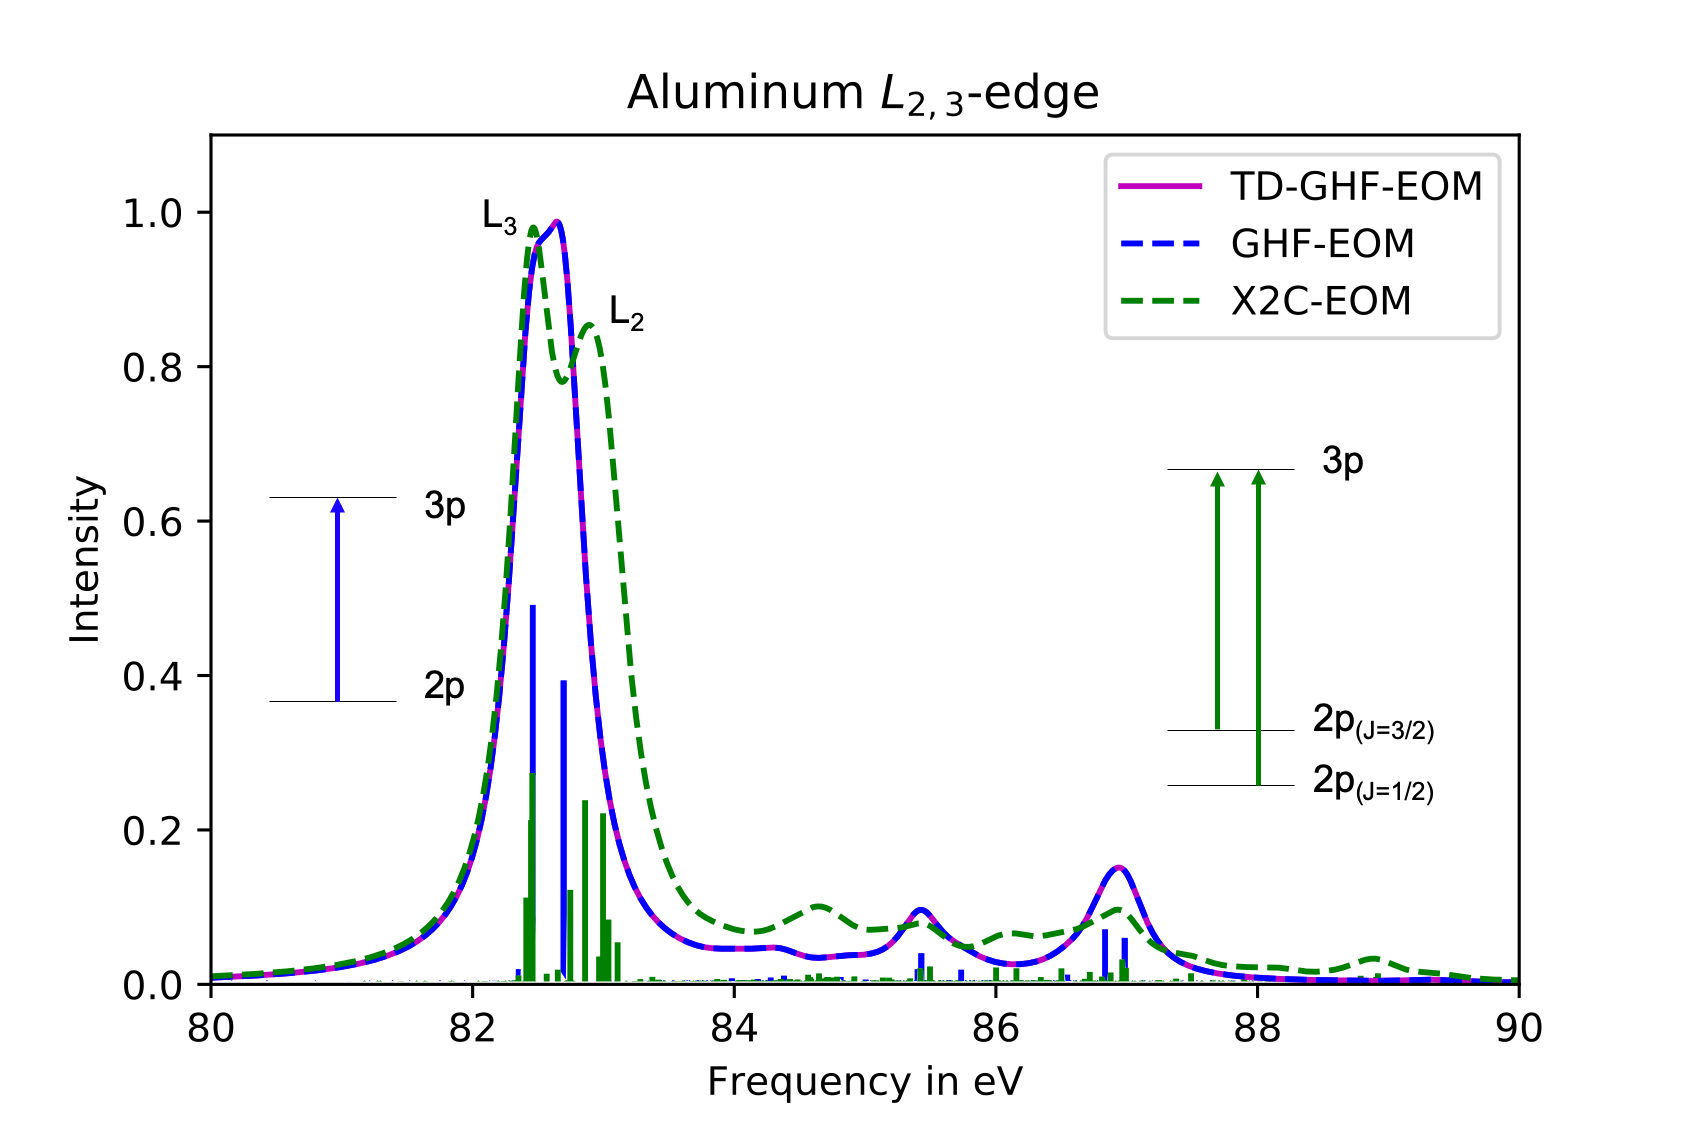
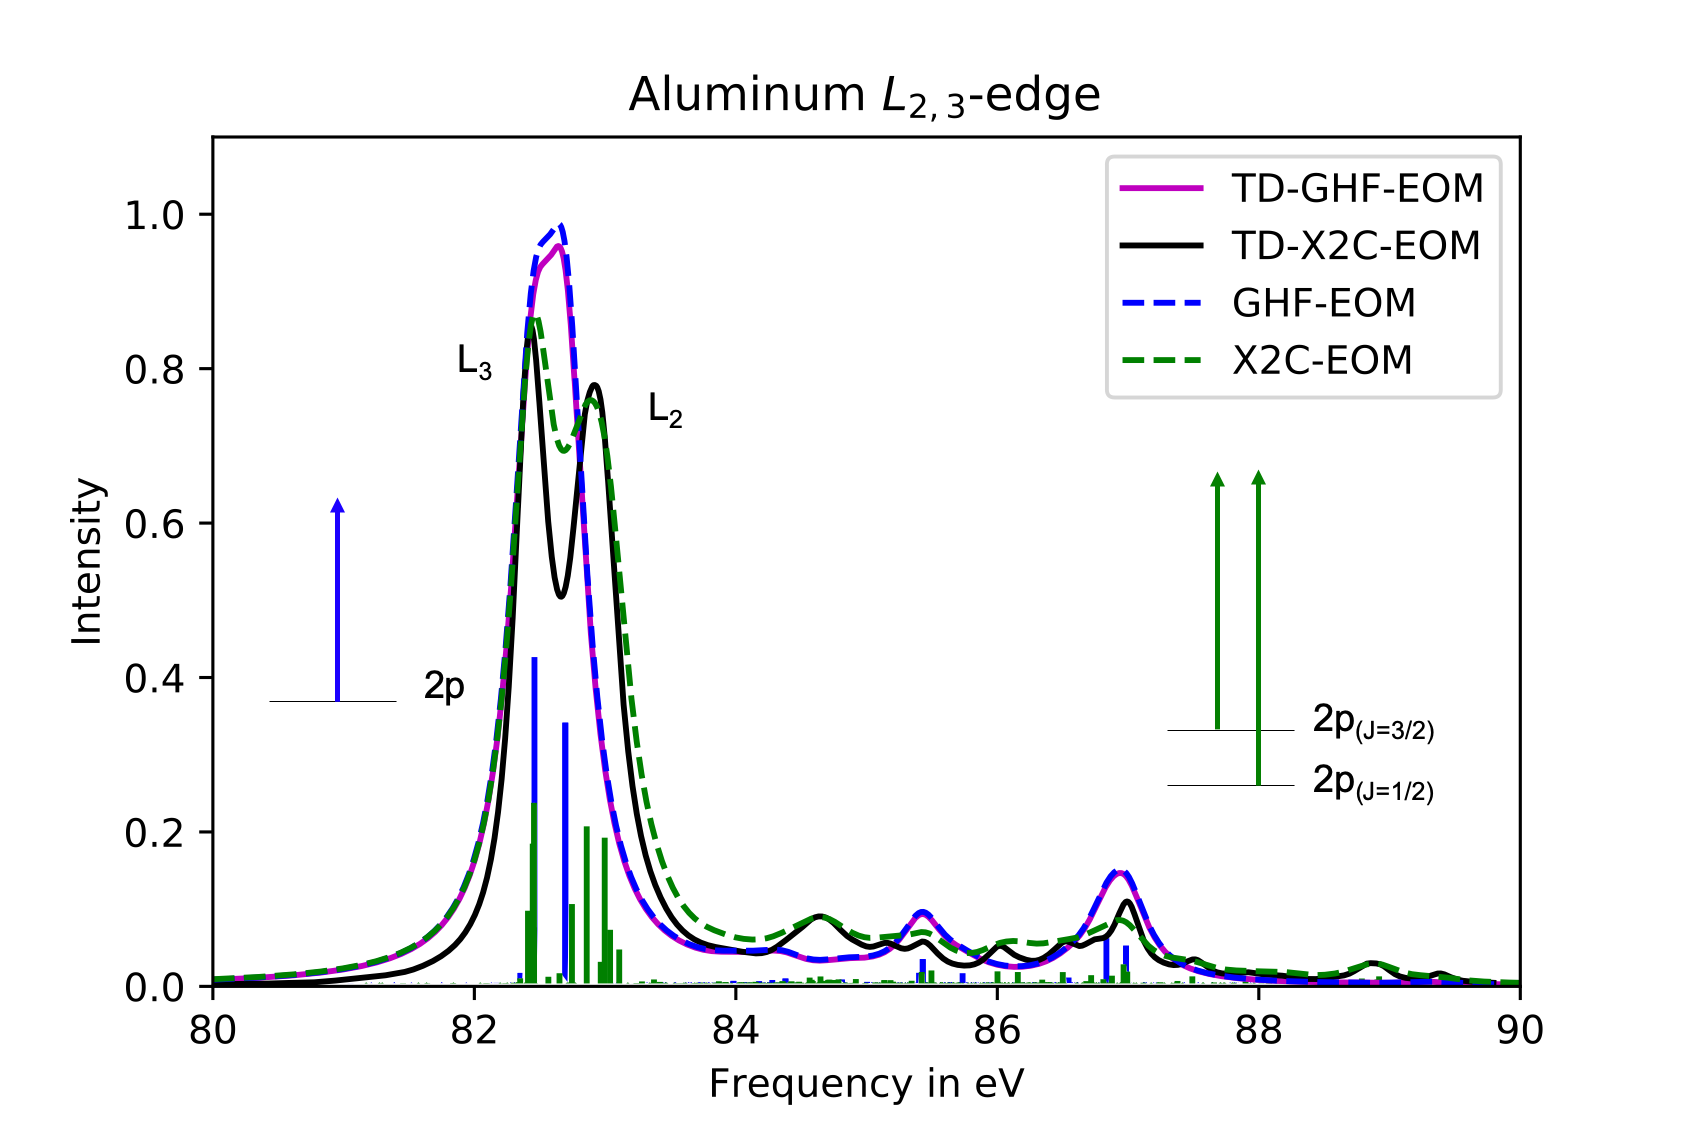
draft of poster

Changed region(s): [[0.0308, 0.0622, 0.8939, 0.9956], [0.8939, 0.9022, 0.9247, 0.9333], [0.7706, 0.4044, 0.8014, 0.4356]]

diff --git a/_posts/2020-06-20-lauren-koulias.md b/_posts/2020-06-20-lauren-koulias.md
@@ -36,16 +36,16 @@ layout: poster
 
 ## Introduction
 
-The goal of this project is to implement and improve the preformance of excited state coupled cluster singles and doubles (CCSD) calculations in the ChronusQuantum software package (insert hyperlink/ref 1), which can be used to generate absorption spectra in both the UV/Vis and X-ray range. This is acheived through two separate methods: 
+The goal of this project is to implement and improve the preformance of excited state coupled cluster singles and doubles (CCSD) calculations in the [Chronus Quantum](http://www.chronusquantum.org/) software package,<sup>[1](#references)</sup> which can be used to generate absorption spectra in both the UV/Vis and X-ray range. This is acheived through two separate methods: 
 
-1) Equation of Motion CCSD (EOM-CCSD) (insert ref 2, 3), wherein a nonhermitian eigenvalue problem is solved to obtain excitation energies and their oscillator strengths 
+1. Equation of Motion CCSD (EOM-CCSD),<sup>[2,3](#references)</sup> wherein a nonhermitian eigenvalue problem is solved to obtain excitation energies and their oscillator strengths 
 
-2) Time-Dependent EOM-CCSD (TD-EOM-CCSD) (insert ref 4, 5) wherein the dipole autocorrelation function is propagated forward in time, resulting in a time-domain spectrum which is then Fourier transformed into the frequency-domain in order to generate an absorption spectrum
+2. Time-Dependent EOM-CCSD (TD-EOM-CCSD)<sup>[4,5](#references)</sup> wherein the dipole autocorrelation function is propagated forward in time, resulting in a time-domain spectrum which is then Fourier transformed into the frequency-domain in order to generate an absorption spectrum
 
-These Coupled-Cluster calculations can include both scalar relativistic effects and spin-orbit coupling variationally by using the exact 2-component (X2C) (insert ref 6) wavefunction as our reference wavefunction for the coupled-cluster calculation. The inclusion of such relativistic effects is important when looking for fine structure in absorption spectra such as zero-field splitting and the splitting in the X-ray L- and M-edges.
+These Coupled-Cluster calculations can include both scalar relativistic effects and spin-orbit coupling variationally by using the exact 2-component (X2C)<sup>[6](#references)</sup> wavefunction as our reference wavefunction for the coupled-cluster calculation. The inclusion of such relativistic effects is important when looking for fine structure in absorption spectra such as zero-field splitting and the splitting in the X-ray L- and M-edges.
 
 ## Theory
-The ground state CC wavefunction (insert ref 7) is comprised of an exponential operator acting on a reference wavefunction, $$ \vert\Phi_0\rangle$$:
+The ground state CC wavefunction<sup>[7](#references)</sup> is comprised of an exponential operator acting on a reference wavefunction, $$ \vert\Phi_0\rangle$$:
 
  $$ \vert\Psi_{CC}\rangle =  e^{\hat{T}}\vert\Phi_0\rangle$$ 
 
@@ -59,7 +59,7 @@ The ground state CC wavefunction (insert ref 7) is comprised of an exponential o
 
 ### Equation of Motion
 
-The excited state wavefunctions can be determined as eigenfunctions of the shifted similarity-transformed Hamiltonian (insert ref 2,3):
+The excited state wavefunctions can be determined as eigenfunctions of the shifted similarity-transformed Hamiltonian:<sup>[2,3](#references)</sup>
 
 $$ \tilde{H} = \bar{H}-E_{CC} $$
 
@@ -75,19 +75,22 @@ Where $$\vert\Psi_{CC}\rangle$$ is the ground state CC equation and $$\omega_P$$
 
 ### Real-Time Equation of Motion
 
-Instead of solving this eigenproblem directly, we can instead propagate the dipole autocorrelation function forward in time (insert ref 4,5). The spectral lineshape function of the dipole autocorrelation function is:
+Instead of solving this eigenproblem directly, we can instead propagate the dipole autocorrelation function forward in time.<sup>[4,5](#references)</sup> The spectral lineshape function of the dipole autocorrelation function is:
 
 $$ I(\omega) = \sum_{\xi \in {x,y,z}} \int\limits_{-\infty}^\infty dt\,e^{-iwt} \langle M(0) \cdot M(t)\rangle $$
 
 and more specifically, the coupled-cluster dipole moment function is defined as:
 
-$$ I(\omega) = \sum_{\xi \in {x,y,z}} \int\limits_{-\infty}^\infty dt\,e^{-iwt} \langle\Phi_0\vert(\hat{1}+\hat{\Lambda}\bar{\mu}_\xi e^{i\tilde{H}t}\bar{\mu}_\xi\vert\Phi_0\rangle $$ 
+$$ I(\omega) = \sum_{\xi \in {x,y,z}} \int\limits_{-\infty}^\infty dt\,e^{-iwt} \langle\Phi_0\vert(\hat{1}+\hat{\Lambda})\bar{\mu}_\xi e^{i\tilde{H}t}\bar{\mu}_\xi\vert\Phi_0\rangle $$ 
 
 where $$\bar{\mu}_\xi$$ is the similarity transformed dipole operator. 
 
 This propagation forms a time domain spectrum which can then be Fourier transformed using the Pade approximation to yeild a frequency domain absorption spectrum:
 
 (insert water time domain / freq domain spectrum diagram)
+
+![Figure Label]({{ site.url }}{{ site.baseurl }}/assets/images/LAUREN_KOULIAS/water_transform.png)  
+***Figure 1**: The time domain spectra on the left can be converted to the frequency domain absorption spectra on the right using a Fourier transformation. Data from STO-3G water molecule show.*
 
 
 ## Results
@@ -98,44 +101,53 @@ When ℂ-GHF is used as the reference wavefunction, only one transition is seen 
 
 
 ![Figure Label]({{ site.url }}{{ site.baseurl }}/assets/images/LAUREN_KOULIAS/na_td_and_eom.png)  
-***Figure 1**: The Sodium D-Line*
+***Figure 2**: The low energy absorption spectra of a sodium atom using both nonrelativistic and relativistic caluclations for both the EOM and TD-EOM methods are shown, all using the 6-31G basis set.*
 
-A preliminary benchmark for the accuracy of TD-X2C-EOM-CCSD on Zero-Field splitting in atomic spectra can be found in Ref. 5.
+A preliminary benchmark for the accuracy of TD-X2C-EOM-CCSD on Zero-Field splitting in atomic spectra can be found in Ref. [5](#references).
 
 
 ### L-edge X-Ray Spectra
 
-Similarly, in the L-edge of Aluminum when the ℂ-GHF reference wavefunction is use we see transitions from the 2p to 3p orbitals. However, when we use an X2C reference, the p orbitals split into $$J=\frac{1}{2}$$ and $$J=\frac{3}{2}$$, giving rise to the $$L_{2,3}$$-edge separation that can seen in Fig. 2. Again, the good aggreement between the EOM-CCSD and TD-EOM formalisms should be noted
+Similarly, in the L-edge of Aluminum when the ℂ-GHF reference wavefunction is use we see transitions from the 2p to 3p orbitals. However, when we use an X2C reference, the p orbitals split into $$J=\frac{1}{2}$$ and $$J=\frac{3}{2}$$, giving rise to the $$L_{2,3}$$-edge separation that can seen in Fig. 3. Again, there is good aggreement between the EOM-CCSD and TD-EOM formalisms.
 
 ![Figure Label]({{ site.url }}{{ site.baseurl }}/assets/images/LAUREN_KOULIAS/al_l_edge_spec.png)  
-***Figure 2**: Aluminum $$L_{2,3}$$-edge*
+***Figure 3**: The X-ray absorption spectra of aluminum using both nonrelativistic and relativistic caluclations for both the EOM and TD-EOM methods are shown, all using the 6-31G basis set.*
 
-(add TD-X2C to figure!!)
-
-A benchmark for the accuracy of X2C-EOM-CCSD in both the US/Vis and X-ray region will be submitted by the end of the summer (insert Ref. 6).
+A benchmark for the accuracy of X2C-EOM-CCSD in both the US/Vis and X-ray region will be submitted by the end of the summer.<sup>[8](#references)</sup>
 
 ## Computational Analysis
 
-### Parallelization
-
-Figure comparing timings vs for number of cores used
-
 ### Real-Time Propagators
 
-Figure comparing Lanczos timings vs rk4 both with and without TA
+Initially, fourth order runge-kutta (RK4) was used as the propagator for the implementation of TD-EOM. With the addition of the tensor contraction engine, Tiled Array,<sup>[9](#references)</sup> along with using the Lanczos method<sup>[10,11](#references)</sup> to propagate using a subspace Hamiltonian, has greatly improved the speed of propagation. 
+![Figure Label]({{ site.url }}{{ site.baseurl }}/assets/images/LAUREN_KOULIAS/td_timings.png)  
+***Figure 4**: Timings of real-time propagation using Tiled Array (TA) and the Lanczos method.*
+
+When looking at systems with 26 basis functions, using Tiled Array alone provides an average speedup of over 40x, using Lanczos alone provides a speedup of over 10x, and when both Tiled Array and Lanczos are used an average speedup of over 350x is observed when compared to the initial RK4 implementation without the use of a tensor contraction engine.
+
 
 ## References
-1. ref 1
-2. ref 2 
-3. ref 3
-4. ref 4
-5. ref 5
-6. ref 6
-7. ref 7
-8. ref 8
+1. D.B. Williams‐Young, A. Petrone, S. Sun, et al. The Chronus Quantum software package. *WIREs Comput Mol Sci*. **2020**; 10:e1436. [https://doi.org/10.1002/wcms.1436](https://doi.org/10.1002/wcms.1436)
+2. J.  F. Stanton,  R.  J. Bartlett. The  Equation  of  Motion  Coupled-Cluster  Method.  A Systematic Biorthogonal Approach to Molecular Excitation Energies, Transition Prob-abilities, and Excited State Properties.*J. Chem. Phys*.**1993**,98, 7029–7039.
+[https://doi.org/10.1063/1.464746](https://doi.org/10.1063/1.464746)
+3. I. Shavitt, R. J. Bartlett. *Many-Body Methods in Chemistry and Physics*; MBPT andCoupled-Cluster Theory; Cambridge University Press, **2009**. [https://doi.org/10.1063/1.464746](https://doi.org/10.1063/1.464746)
+4.  D. R. Nascimento, A. E. DePrince III. Linear Absorption Spectra
+from Explicitly Time-Dependent Equation-of-Motion Coupled-Cluster Theory. *J. Chem. Theory Comput*. **2016**, 12, 5834−5840
+[https://doi.org/10.1021/acs.jctc.6b00796](https://doi.org/10.1021/acs.jctc.6b00796)
+5. L. N. Koulias, D. B. Williams-Young, D. R. Nascimento, A. E. DePrince III, and X. Li. Relativistic Real-Time Time-Dependent Equation-of-Motion Coupled-Cluster. *J. Chem. Theory Comput*. **2019**, 15, 6617.
+[https://doi.org/10.1021/acs.jctc.9b00729](https://doi.org/10.1021/acs.jctc.9b00729)
+6. W. Liu; D. Peng. Exact Two-component Hamiltonians
+Revisited. *J. Chem. Phys*. **2009**, 131, 031104. [https://doi.org/10.1063/1.3159445](https://doi.org/10.1063/1.3159445)
+7. D. T. Crawford, H. F. Schaefer III. *Rev. Comp. Chem*. **2007**, 14, 33−136. [https://doi.org/10.1002/9780470125915.ch2](https://doi.org/10.1002/9780470125915.ch2)
+8. L. N. Koulias, L. Lu, D. B. Williams-Young, T. Zhang, A. E. DePrince III, X. Li. Simulating Absorption Spectra with Relativistic Equation-of-Motion Coupled-Cluster Singles and Doubles. TBD.
+9. "TiledArray: A general-purpose scalable block-sparse tensor framework", Justus A. Calvin and Edward F. Valeev, [https://github.com/valeevgroup/tiledarray](https://github.com/valeevgroup/tiledarray)
+10. (Lanczos ref)
+11. (Brandons in progress paper)
 
 ### Acknowledgements
 
 "`Lauren Koulias` was supported by a fellowship from The Molecular Sciences Software Institute under NSF grant OAC-1547580"
+
+Lauren would like to thank Professor Xiaosong Li and the entire Li research group for their support. Lauren would also like to thank her collaborators at Florida State University, particularly Brandon Cooper.
 
 
